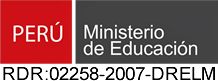
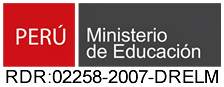
cambios finales

diff --git a/index.html b/index.html
@@ -13,23 +13,29 @@
 </head>
 <body>
 	<div class="container-fluid">
-		<section class="row blue">			
+		<section class="row blue">
+			<a href="#">			
 			<div class="col-xs-12 col-sm-5 col-md-5">
 				<div class="logo">
 					<img src="img/logo/logo1.png">
 				</div>
-			</div>			
+			</div>
+			</a>
+			<a>			
 			<div class="col-xs-12 col-sm-2 col-md-2">
 				<div class="resolucion">
 					<img src="img/logo/resolucion.png">
 				</div>
 			</div>
+			</a>
+			<a href="https://reg.institutodeseguridad.edu.pe/registro" target="_blank">
 			<div class="col-xs-12 col-sm-3 col-md-3">
 				<div class="induccion">
-					<img src="http://institutodeseguridad.edu.pe/wp-content/uploads/induccionv6.gif">
+					<img src="img/induccionv6.gif">
 				</div>
 			</div>
-			<a href="#">
+			</a>
+			<a href="http://issegur.edu.pe/" target="_blank">
 			<div class="col-xs-12 col-sm-2 col-md-2">
 				<div class="aula">
 					<img src="img/logo/aula.png">
@@ -43,10 +49,10 @@
 				</div>
 		</div>
 		<div class="row link">
-					<div class="col-md-3">2</div>
-					<div class="col-md-3">2</div>
-					<div class="col-md-3">2</div>
-					<div class="col-md-3">2</div>
+					<div class="col-md-3"><a href="http://seguridad.institutodeseguridad.edu.pe/seguridad-privada/" target="_blank"><img src="img/click.png"></a></div>
+					<div class="col-md-3"><a href="https://institutodeseguridad.edu.pe/"  target="_blank"><img src="img/click.png"></a></div>
+					<div class="col-md-3"><a href="http://seguridad.institutodeseguridad.edu.pe/centro-de-formacion-de-seguridad-ciudadana/" target="_blank"><img src="img/click.png"></a></div>
+					<div class="col-md-3"><a href="#"><img src="img/pronto.png"></a></div>
 		</div>
 		<footer class="clase-general">
 			<div class="container">

diff --git a/css/style.css b/css/style.css
@@ -5,9 +5,9 @@ body {
 }
 
 .logo {
-	padding-top: 20px;
+	padding-top: 25px;
 	padding-bottom: 20px;
-	margin: 0S auto;
+	margin: 0 auto;
 }
 
 .blue {
@@ -19,24 +19,38 @@ body {
 }
 
 .resolucion {
-	padding-top: 30px;
+	padding-top: 22px;
 	padding-bottom: 20px;
-	width: 150px;
+	width: 200px;
 	margin: 0 auto;
 }
 
 .induccion {
-	padding-top: 30px;
+	padding-top: 24px;
 	padding-bottom: 20px;
 	width: 250px;
 	margin: 0 auto;
 }
 
 .aula{
-	padding-top: 30px;
+	padding-top: 25px;
 	padding-bottom: 20px;
 	width: 150px;
 	margin: 0 auto;
+}
+
+.container-fluid .blue a:nth-child(1) div img{
+	width: auto;
+}
+
+.container-fluid .blue a:nth-child(2) div img{
+	width: 100%;
+}
+.container-fluid .blue a:nth-child(3) div img{
+	width: 100%;
+}
+.container-fluid .blue a:nth-child(4) div img{
+	width: 100%;
 }
 
 footer {
@@ -53,18 +67,14 @@ footer {
 
 .text {
 	color: #fff;	
-	height: 80px;
+	height: 60px;
 	text-align: center;
 	padding-top: 15px;
 }
 
 
-.container-fluid .row div img {
-	width: 100%
-}
-
 .link {
-	margin-top: -50px;
+	margin-top: -70px;
 	text-align: center;
 }
 
